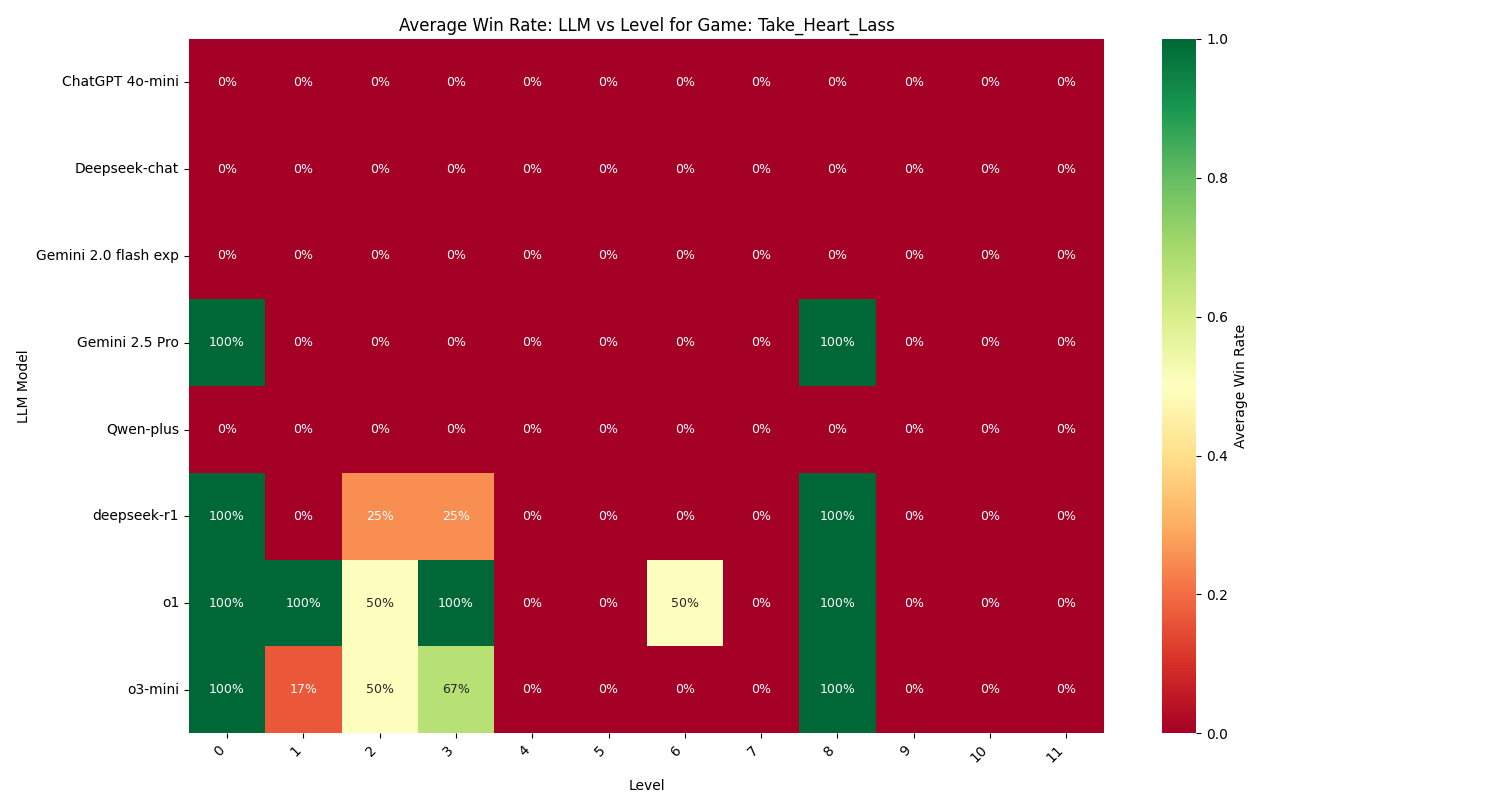
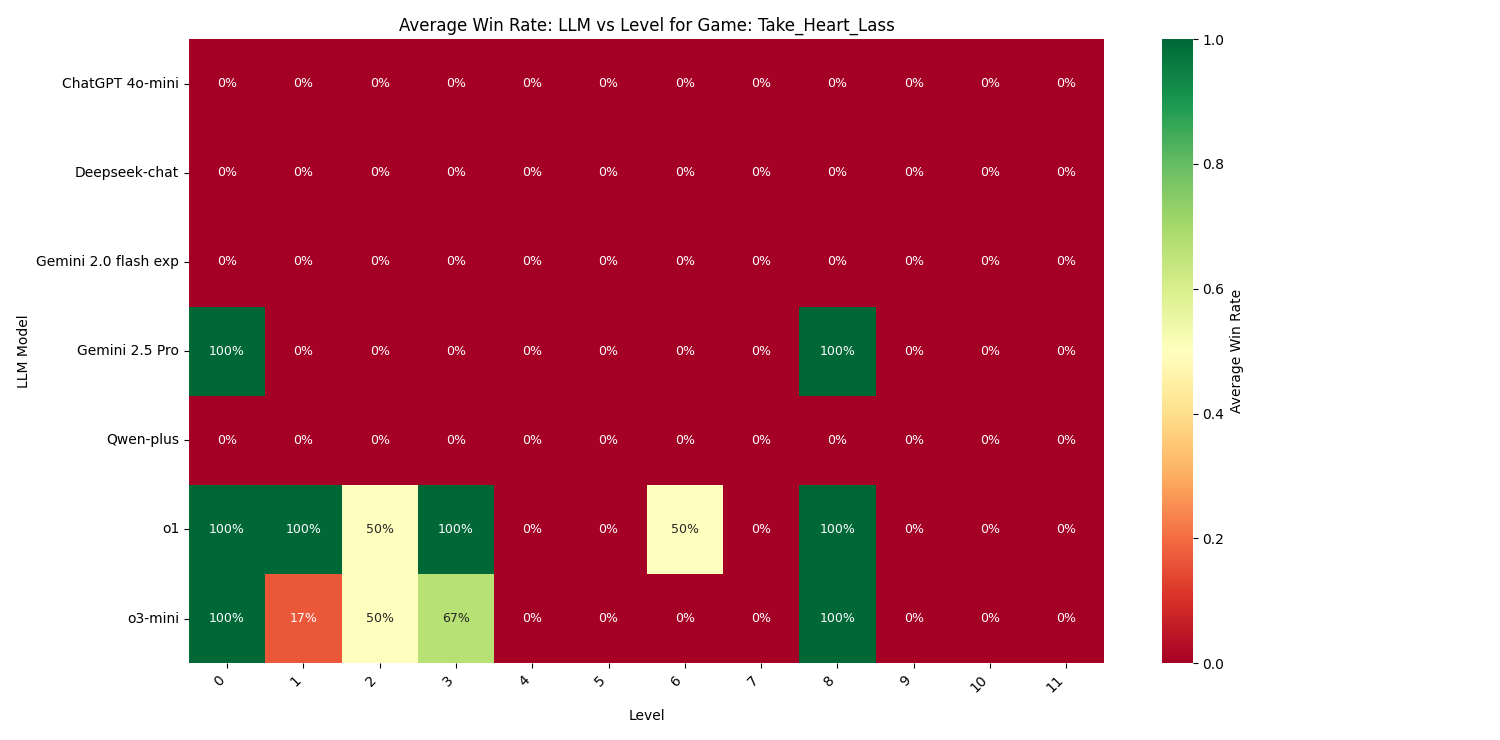
feat: Implement parallel job processing and add CoT filtering in result analysis

diff --git a/llm_agent_loop.py b/llm_agent_loop.py
@@ -2,6 +2,9 @@ import argparse
 import os
 import re
 import json
+import time
+import fcntl
+import multiprocessing
 import jax
 from lark import Lark
 from env_wrappers import RepresentationWrapper
@@ -12,6 +15,115 @@ from globals import PRIORITY_GAMES
 
 CUSTOM_GAMES_DIR = "data/scraped_games"
 
+# Shared state file for coordinating parallel workers
+STATE_FILE_BASENAME = "work_state.json"
+
+def make_job_key(model, game_name, level_index, run_id, think_aloud):
+    cot = "CoT" if think_aloud else "NoCoT"
+    return f"{model}|{cot}|{game_name}|{level_index}|{run_id}"
+
+def claim_next_job(state_path, all_jobs, save_dir, model, think_aloud, force, worker_id):
+    """
+    Atomically claim the next available job by updating the shared JSON state.
+    Returns a tuple (game_name, level_index, run_id) or None if no jobs remain.
+    """
+    os.makedirs(os.path.dirname(state_path), exist_ok=True)
+    with open(state_path, "a+", encoding="utf-8") as f:
+        fcntl.flock(f, fcntl.LOCK_EX)
+        f.seek(0)
+        try:
+            state = json.load(f)
+        except Exception:
+            state = {}
+        working = state.get("working", {})
+        completed = set(state.get("completed", []))
+
+        # Mark already-existing outputs as completed when not forcing
+        if not force:
+            for game_name, level_index, run_id in all_jobs:
+                key = make_job_key(model, game_name, level_index, run_id, think_aloud)
+                if key in completed or key in working:
+                    continue
+                if check_run_file_exists(save_dir, model, game_name, run_id, level_index, think_aloud):
+                    completed.add(key)
+
+        chosen = None
+        for game_name, level_index, run_id in all_jobs:
+            key = make_job_key(model, game_name, level_index, run_id, think_aloud)
+            if key in completed or key in working:
+                continue
+            if (not force) and check_run_file_exists(save_dir, model, game_name, run_id, level_index, think_aloud):
+                completed.add(key)
+                continue
+            # Claim this job
+            working[key] = {"worker": worker_id, "ts": time.time()}
+            chosen = (game_name, level_index, run_id)
+            break
+
+        state["working"] = working
+        state["completed"] = sorted(completed)
+        f.seek(0)
+        json.dump(state, f, indent=2)
+        f.truncate()
+        fcntl.flock(f, fcntl.LOCK_UN)
+
+    return chosen
+
+def release_job(state_path, model, game_name, level_index, run_id, think_aloud, status):
+    """
+    Release a claimed job from the working set and optionally mark completed.
+    Status can be 'done', 'failed', or 'skipped'.
+    """
+    key = make_job_key(model, game_name, level_index, run_id, think_aloud)
+    with open(state_path, "a+", encoding="utf-8") as f:
+        fcntl.flock(f, fcntl.LOCK_EX)
+        f.seek(0)
+        try:
+            state = json.load(f)
+        except Exception:
+            state = {}
+        working = state.get("working", {})
+        completed = set(state.get("completed", []))
+
+        if key in working:
+            del working[key]
+        if status in ("done", "skipped"):
+            completed.add(key)
+
+        state["working"] = working
+        state["completed"] = sorted(completed)
+        f.seek(0)
+        json.dump(state, f, indent=2)
+        f.truncate()
+        fcntl.flock(f, fcntl.LOCK_UN)
+
+def worker_loop(args, all_jobs, game_info_map, save_dir_main):
+    worker_id = args.worker_id if args.worker_id else f"{os.uname().nodename}-{os.getpid()}"
+    state_path = args.state_path if args.state_path else os.path.join(save_dir_main, STATE_FILE_BASENAME)
+    # Initialize a new LLM agent for this worker
+    agent = LLMGameAgent(model_name=args.model)
+    print(f"Worker {worker_id}: starting with state_path {state_path}")
+    while True:
+        job = claim_next_job(state_path, all_jobs, save_dir_main, args.model, args.think_aloud, args.force, worker_id)
+        if job is None:
+            print(f"Worker {worker_id}: no remaining claimable jobs. Exiting worker loop.")
+            break
+        game_name, level_index, run_id = job
+        print(f"Worker {worker_id} processing: {game_name} | Level {level_index} | Run {run_id}")
+        game_info = game_info_map[game_name]
+        success = process_game_level(
+            agent=agent,
+            game_info=game_info,
+            level_index=level_index,
+            run_id=run_id,
+            save_dir=save_dir_main,
+            think_aloud=args.think_aloud,
+            model=args.model,
+            max_steps=args.max_steps,
+            force=args.force
+        )
+        release_job(state_path, args.model, game_name, level_index, run_id, args.think_aloud, 'done' if success else 'failed')
+    
 def extract_section(filepath, section):
     """
     Extract a specific section from a PuzzleScript game file.
@@ -369,21 +481,13 @@ def process_game_level(agent, game_info, level_index, run_id, save_dir, model,
             del result["heuristic_sequence"]
         result["final_ascii"] = ascii_state.split('\n')
         
-        # Find the next available run ID (starting from the current run_id)
-        available_run_id = find_next_available_run_id(save_dir, model, game_name, level_index, run_id, think_aloud)
-        
-        if available_run_id != run_id:
-            print(f"Original run ID {run_id} already exists. Using run ID {available_run_id} instead.")
-            # Update the run ID in the result dictionary
-            result["run"] = available_run_id
-        
-        # Get the file path with the updated run ID
-        current_run_filepath = get_run_file_path(save_dir, model, game_name, available_run_id, level_index, think_aloud)
-        
-        # Save results
-        with open(current_run_filepath, "w", encoding="utf-8") as f:
-            json.dump(result, f, indent=2, default=lambda o: f"<{type(o).__name__} instance>")
-        print(f"Result saved to {current_run_filepath} (Run ID: {available_run_id})")
+        # Save results to the originally-claimed run file path (do not change run_id under parallel workers)
+        if os.path.exists(current_run_filepath):
+            print(f"Result file already exists at {current_run_filepath}. Not overwriting.")
+        else:
+            with open(current_run_filepath, "w", encoding="utf-8") as f:
+                json.dump(result, f, indent=2, default=lambda o: f"<{type(o).__name__} instance>")
+            print(f"Result saved to {current_run_filepath} (Run ID: {run_id})")
         
         return True
         
@@ -414,6 +518,12 @@ def main():
                         help='Allow the LLM to think aloud as opposed to outputting strictly the next action.')
     parser.add_argument('--save_dir', type=str, default="llm_agent_results",
                         help='Directory to save results (default: llm_agent_results)')
+    parser.add_argument('--worker_id', type=str, default='',
+                        help='Optional identifier for this worker process')
+    parser.add_argument('--state_path', type=str, default='',
+                        help='Optional path to shared JSON state for coordinating workers')
+    parser.add_argument('--workers', type=int, default=1,
+                        help='Number of parallel worker processes to spawn (default: 1)')
     args = parser.parse_args()
 
     # Get the list of games from PRIORITY_GAMES
@@ -464,28 +574,27 @@ def main():
         print("No valid games found. Exiting.")
         return
     
-    # 第二步：按运行ID遍历所有游戏和关卡
+    # 第二步：构建全部作业列表，并通过共享JSON进行并行协调
+    all_jobs = []
     for run_id in range(args.run_id_start, args.num_runs + args.run_id_start):
-        print(f"\n\n========== PROCESSING RUN {run_id} OF {args.num_runs} FOR ALL GAMES ==========\n")
-        
-        # 处理所有游戏
-        for game_idx, game_info in enumerate(all_games_info):
-            game_name = game_info["game_name"]
-            print(f"\n==== Processing game {game_idx+1}/{len(all_games_info)}: {game_name} (Run {run_id}) ====")
-            
-            # 处理该游戏的所有关卡
+        for game_info in all_games_info:
             for level_index in game_info["levels_to_process"]:
-                process_game_level(
-                    agent=agent,
-                    game_info=game_info,
-                    level_index=level_index,
-                    run_id=run_id,
-                    save_dir=save_dir_main,
-                    think_aloud=args.think_aloud,
-                    model=args.model,
-                    max_steps=args.max_steps,
-                    force=args.force
-                )
+                all_jobs.append((game_info["game_name"], level_index, run_id))
+
+    game_info_map = {gi["game_name"]: gi for gi in all_games_info}
+
+    if args.workers > 1:
+        processes = []
+        for _ in range(args.workers):
+            p = multiprocessing.Process(target=worker_loop, args=(args, all_jobs, game_info_map, save_dir_main))
+            p.start()
+            processes.append(p)
+        for p in processes:
+            p.join()
+    else:
+        # For single worker, initialize the agent here and run directly.
+        agent = LLMGameAgent(model_name=args.model)
+        worker_loop(args, all_jobs, game_info_map, save_dir_main)
     
     print("\n=== All runs for all games and levels have been processed ===")
 

diff --git a/llm_agent_results/analysis/result_analysis.py b/llm_agent_results/analysis/result_analysis.py
@@ -4,6 +4,7 @@ import pandas as pd
 import matplotlib.pyplot as plt
 import seaborn as sns
 import re
+import argparse
 
 def parse_filename(filename):
     """
@@ -42,6 +43,7 @@ def parse_filename(filename):
 def collect_results(results_dir):
     """
     Collects results from all .json files in the specified results_dir **and all its subdirectories**.
+    Adds a 'cot' field (0/1) for each entry, inferred from filename or content.
     """
     data = []
 
@@ -49,7 +51,6 @@ def collect_results(results_dir):
         print(f"Error: Directory '{results_dir}' not found.")
         return pd.DataFrame()
 
-    # 遍历所有子目录和文件
     for root, dirs, files in os.walk(results_dir):
         for filename in files:
             if filename.endswith(".json"):
@@ -59,14 +60,29 @@ def collect_results(results_dir):
                 if not llm or not game:
                     print(f"Skipping unparsable file: {filename}")
                     continue
-                    
+
+                # Infer cot from filename (e.g. cot-1 or cot-0 in filename)
+                cot = None
+                cot_match = re.search(r'cot[-_](\d)', filename)
+                if cot_match:
+                    cot = int(cot_match.group(1))
+                else:
+                    # Try to infer from content if possible
+                    try:
+                        with open(filepath, 'r') as f:
+                            content = json.load(f)
+                        cot = int(content.get("cot", 0))
+                    except Exception:
+                        cot = 0  # Default to 0 if not found
+
                 # Normalize game name for atlas shrank cases
                 if "atlas shrank" in game or "atlas_shrank" in game:
                     game = "atlas_shrank"
 
                 try:
-                    with open(filepath, 'r') as f:
-                        content = json.load(f)
+                    if 'content' not in locals():
+                        with open(filepath, 'r') as f:
+                            content = json.load(f)
                     
                     win_status = content.get("win", content.get("state_data", {}).get("win", False))
                     steps = content.get("state_data", {}).get("step", float('nan')) # Get steps, use NaN if not found
@@ -78,25 +94,45 @@ def collect_results(results_dir):
                         "level": level,
                         "win": win_status,
                         "steps": steps,
-                        "filename": filename
+                        "filename": filename,
+                        "cot": cot
                     })
                 except json.JSONDecodeError:
                     print(f"Error decoding JSON from file: {filepath}")
                 except Exception as e:
                     print(f"Error processing file {filepath}: {e}")
+                finally:
+                    if 'content' in locals():
+                        del content
     
     return pd.DataFrame(data)
 
 
 def main():
-    # The script is in llm_agent_results/analysis/, so results_dir is ../
+    parser = argparse.ArgumentParser(description="Analyze LLM results with optional CoT filtering.")
+    parser.add_argument('--cot', type=int, choices=[0, 1], default=0,
+                        help="Analyze only data with specified cot value (0: default, 1: only CoT runs). Default: 0 (no CoT).")
+    parser.add_argument('--include-cot-games', action='store_true',
+                        help="If set, include games whose name starts with 'cot' or 'CoT'. Default: not included.")
+    parser.add_argument('--only-non-thinking-models', action='store_true',
+                        help="If set, only include non-thinking models (ChatGPT 4o-mini, Deepseek-chat, Gemini 2.5 Pro, Qwen-plus).")
+    args = parser.parse_args()
+
     current_script_path = os.path.dirname(os.path.abspath(__file__))
     results_dir = os.path.join(current_script_path, "..") # Points to llm_agent_results/
 
     df = collect_results(results_dir)
 
     # 过滤掉 deepseek-r1 结果
-    df = df[df['llm'] != 'deepseek-r1']
+    df = df[~df['llm'].isin(['deepseek-r1', 'llama'])]
+
+    # 只保留指定 cot 的数据
+    if "cot" in df.columns:
+        df = df[df["cot"] == args.cot]
+
+    # 默认过滤掉所有以 cot/CoT 开头的 game，除非用户指定 --include-cot-games
+    if not args.include_cot_games:
+        df = df[~df['game'].str.lower().str.startswith('cot')]
 
     if df.empty:
         print("No data collected. Exiting.")
@@ -114,6 +150,17 @@ def main():
         "gemini-2.5-pro":"Gemini 2.5 Pro"
     }
     df['llm'] = df['llm'].replace(llm_name_mapping)
+
+    # 只保留非thinking模型（如指定）
+    if args.only_non_thinking_models:
+        non_thinking_models = [
+            "ChatGPT 4o-mini",
+            "Deepseek-chat",
+            "Gemini 2.5 Pro",
+            "Gemini 2.0 flash exp",
+            "Qwen-plus"
+        ]
+        df = df[df['llm'].isin(non_thinking_models)]
 
     # Calculate average win rate and average steps per LLM
     llm_agg_data = df.groupby("llm").agg(
